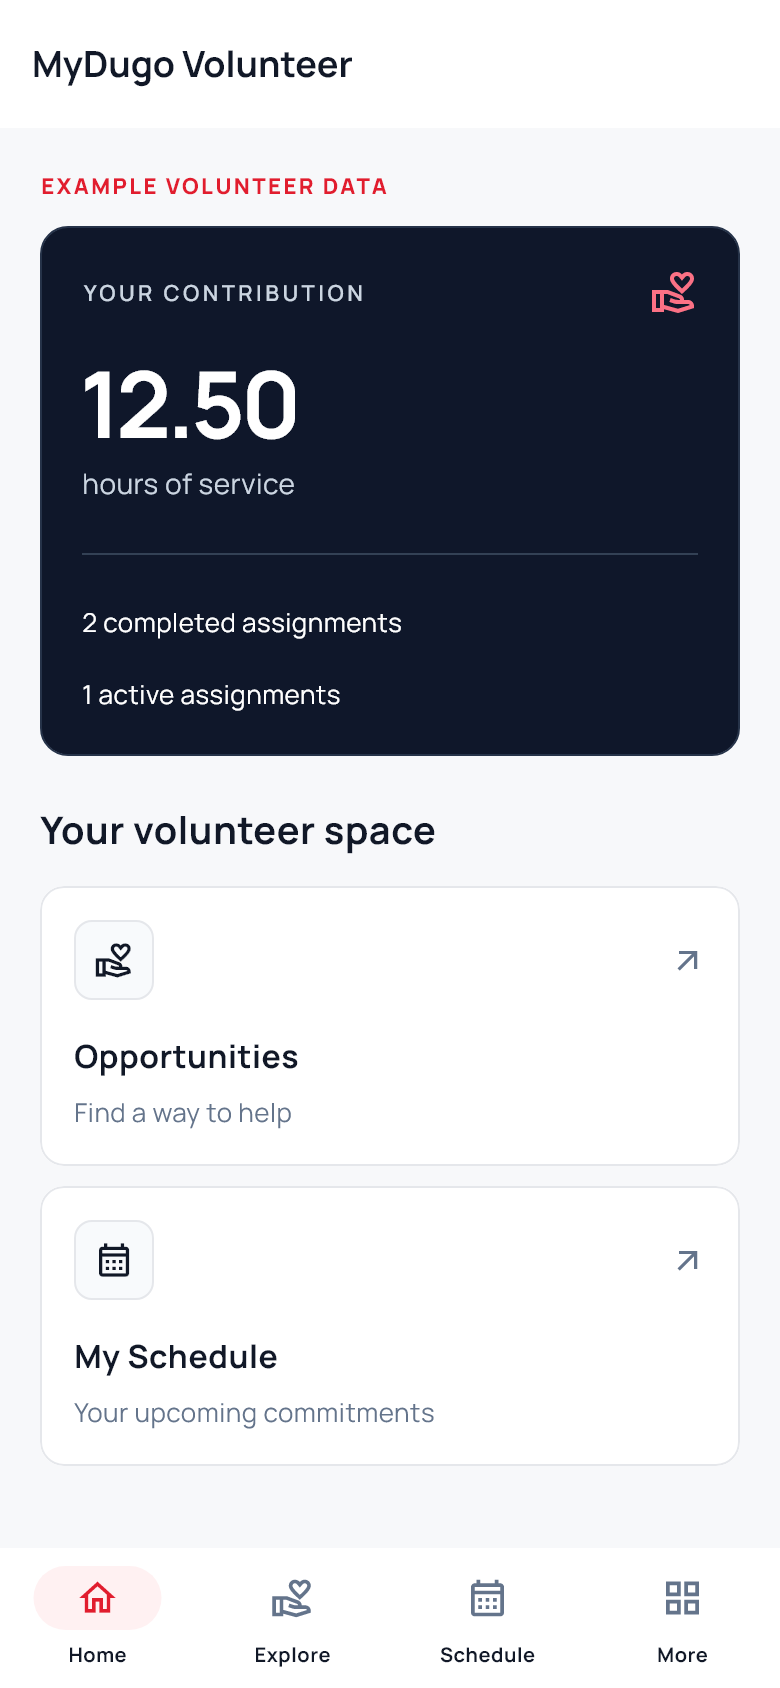
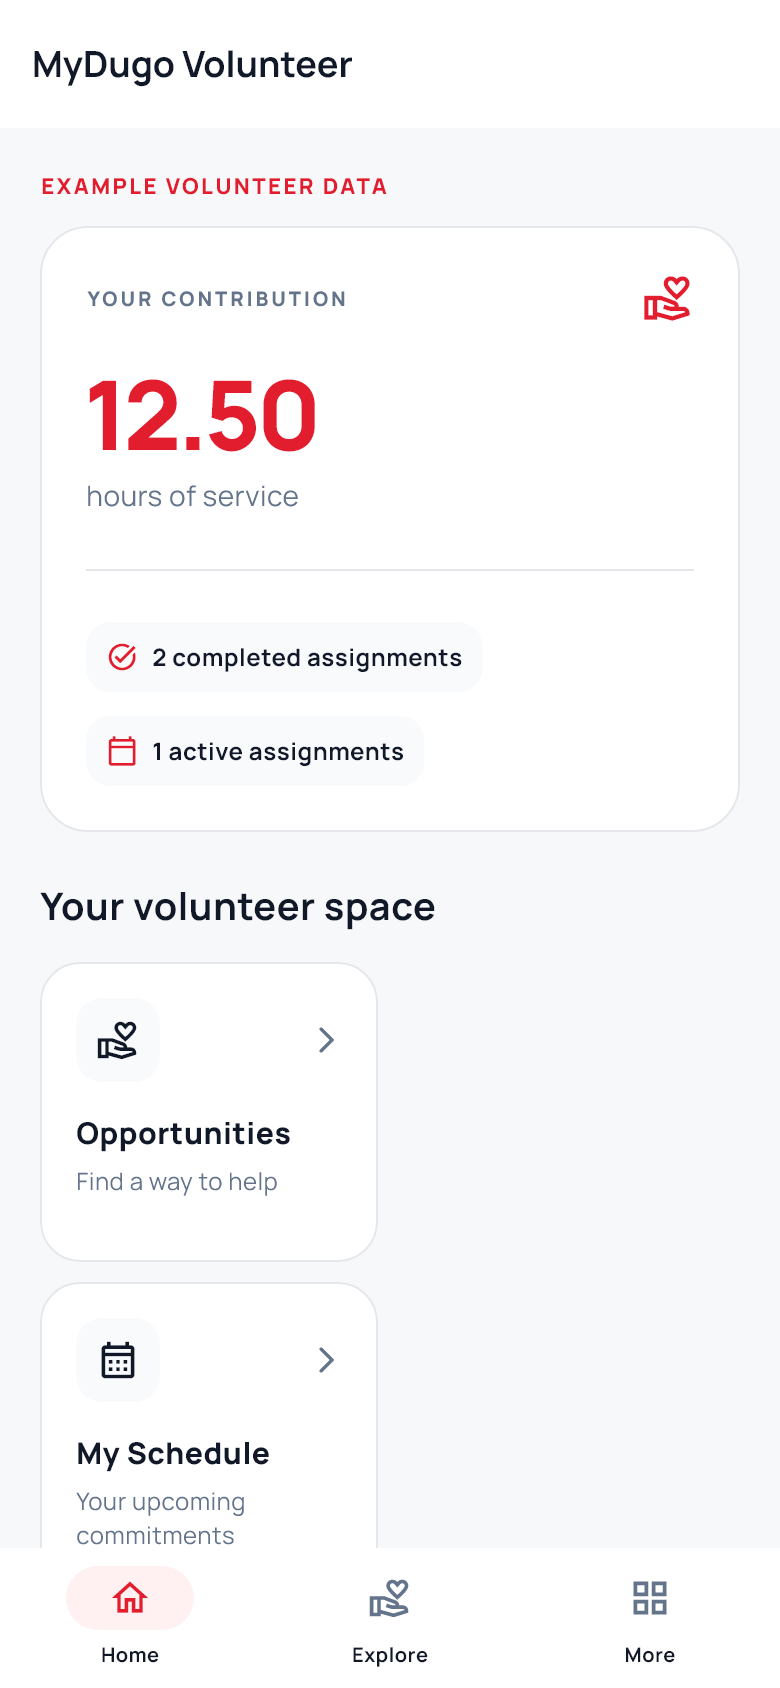
Publish build 32 with simplified account navigation

diff --git a/index.html b/index.html
@@ -47,7 +47,7 @@
             <p class="hero-kicker"><span aria-hidden="true"></span> MYDUGO · ALBAY–LEGASPI CITY</p>
             <h1>Give blood.<br><em>Stay ready to help.</em></h1>
             <p class="hero-lede">From your first eligibility check to chapter-reviewed blood needs and appointments, MyDugo helps you see the next step clearly.</p>
-            <div class="hero-actions"><a class="button button-primary" href="https://github.com/redblue1912/mydugo-public-site/releases/download/v1.1.0-build31/MyDugo-1.1.0-build31-release.apk">Get the Android app <svg class="icon" aria-hidden="true"><use href="#i-arrow"></use></svg></a><a class="button button-outline" href="#blood-donation">Explore the donor journey <svg class="icon" aria-hidden="true"><use href="#i-arrow"></use></svg></a></div>
+            <div class="hero-actions"><a class="button button-primary" href="https://github.com/redblue1912/mydugo-public-site/releases/download/v1.1.0-build32/MyDugo-1.1.0-build32-release.apk">Get the Android app <svg class="icon" aria-hidden="true"><use href="#i-arrow"></use></svg></a><a class="button button-outline" href="#blood-donation">Explore the donor journey <svg class="icon" aria-hidden="true"><use href="#i-arrow"></use></svg></a></div>
             <p class="hero-assurance"><svg class="icon" aria-hidden="true"><use href="#i-shield"></use></svg><span>Chapter staff review eligibility and blood-test results. The donation center makes the final on-site assessment.</span></p>
           </div>
         </div>
@@ -139,7 +139,7 @@
 
     <section id="volunteer" class="section volunteer"><div class="container volunteer-grid"><figure class="volunteer-media photo-figure"><img src="assets/volunteers.jpg" alt="Volunteers sorting donated supplies into boxes" width="1400" height="933" loading="lazy"><figcaption>Illustrative photograph: <a href="https://www.pexels.com/photo/volunteers-packing-up-goods-7156179/" target="_blank" rel="noopener noreferrer">Gustavo Fring / Pexels</a>. This is not a chapter photograph.</figcaption></figure><div class="volunteer-copy"><p class="kicker">09 / GIVE YOUR TIME</p><h2>Your time can make a difference.</h2><p>Volunteers help humanitarian work happen. Approved MyDugo volunteers can follow published chapter opportunities and their assignments in the app.</p><p>Ask the chapter how to join or learn about Philippine Red Cross volunteer service.</p><div class="volunteer-actions"><a class="button button-primary" href="#contact">Contact the chapter <svg class="icon" aria-hidden="true"><use href="#i-arrow"></use></svg></a><a class="inline-link" href="https://redcross.org.ph/about-us/" target="_blank" rel="noopener noreferrer">Explore Red Cross service ↗</a></div></div></div></section>
 
-    <section id="download" class="download"><div class="container download-grid"><div><p class="kicker">10 / STAY CONNECTED</p><h2>Ready to make a difference?</h2><p>MyDugo keeps donation steps, chapter decisions, relevant blood needs, and service opportunities within reach.</p><div class="download-platform"><svg class="icon" aria-hidden="true"><use href="#i-shield"></use></svg> Android preview APK · direct installation</div></div><div class="download-panel"><span>MYDUGO FOR ANDROID</span><h3>Get the Android app.</h3><p>Download the full MyDugo app with public-account, donor, hospital, and volunteer features. Find Blood Help includes the Albay–Legazpi chapter contact details. Donation-drive discovery and donor SMS preferences remain available. Drives appear when chapter staff publish them; SMS alerts require consent and configured delivery. Build 31 shows published public events and announcements on donor, hospital, volunteer and public-user dashboards. Administrators can add event photos, and users can browse more posts with View all and Load more. Donor scheduling offers only 9:30 AM or 1:00 PM at the Philippine Red Cross Albay-Legazpi City Chapter. The morning session ends at noon; lunch is noon to 1:00 PM. The donor profile Privacy &amp; Consent and Where I can help sections and the digital donor card have been removed. The donor dashboard puts active emergency blood requests at the top of the donor dashboard, with Critical requests before Urgent requests. The app combines the blood test and blood donation in one appointment at the same center, date and time. The test comes first; donation follows only after a passed test and staff eligibility confirmation. Hospital accounts are created by chapter administrators. Public users can still register, verify their email, and use their own dashboard for events and announcements. Create a public account and log in to see content summaries, upcoming activities and recent chapter updates. Public users have read-only access; chapter staff choose which content is public. Donor registration requires age 16 or older, agreement to the in-app Terms of Use and acknowledgment of the Privacy Notice. The donor leaderboard and achievements have been removed. Emergency Blood Needs continues to show chapter-approved urgent requests and published hospital locations. Donation decisions and apheresis intervals remain subject to chapter review. This signed Android preview is installed directly, outside Google Play.</p><p class="release-details">Version <strong>1.1.0 (build 31)</strong> · Released November 6, 2026 · <strong>60.96 MiB</strong> (63,922,031 bytes)</p><a class="download-link" href="https://github.com/redblue1912/mydugo-public-site/releases/download/v1.1.0-build31/MyDugo-1.1.0-build31-release.apk">Download Android APK <svg class="icon" aria-hidden="true"><use href="#i-arrow"></use></svg></a><p class="release-hash">SHA-256: <code>389cfc8a689d23ac323d7dd5a20686c46b33e4c169e25f0e98efc9cc62ce53af</code></p><small>Build 31 can update builds 29 and 30 in place. Versions before build 29 used a different install ID and require a separate installation and sign-in. Keep any device-only data before removing an older copy. Terms of Use and the Privacy Notice are available during registration and from About MyDugo.</small></div></div></section>
+    <section id="download" class="download"><div class="container download-grid"><div><p class="kicker">10 / STAY CONNECTED</p><h2>Ready to make a difference?</h2><p>MyDugo keeps donation steps, chapter decisions, relevant blood needs, and service opportunities within reach.</p><div class="download-platform"><svg class="icon" aria-hidden="true"><use href="#i-shield"></use></svg> Android preview APK · direct installation</div></div><div class="download-panel"><span>MYDUGO FOR ANDROID</span><h3>Get the Android app.</h3><p>Download the full MyDugo app with public-account, donor, hospital, and volunteer features. Find Blood Help includes the Albay–Legazpi chapter contact details. Donation-drive discovery and donor SMS preferences remain available. Drives appear when chapter staff publish them; SMS alerts require consent and configured delivery. Build 32 removes duplicate Schedule and Requests shortcuts from the bottom navigation. Donors now have Home, History and Profile; hospitals have Home, Inbox, Reports and Profile; volunteers have Home, Explore and More. Scheduling and requests remain accessible from the dashboards. Public users keep Home, Events and Announcements. Published public events and announcements appear on donor, hospital, volunteer and public-user dashboards. Administrators can add event photos, and users can browse more posts with View all and Load more. Donor scheduling offers only 9:30 AM or 1:00 PM at the Philippine Red Cross Albay-Legazpi City Chapter. The morning session ends at noon; lunch is noon to 1:00 PM. The donor profile Privacy &amp; Consent and Where I can help sections and the digital donor card have been removed. The donor dashboard puts active emergency blood requests at the top of the donor dashboard, with Critical requests before Urgent requests. The app combines the blood test and blood donation in one appointment at the same center, date and time. The test comes first; donation follows only after a passed test and staff eligibility confirmation. Hospital accounts are created by chapter administrators. Public users can still register, verify their email, and use their own dashboard for events and announcements. Create a public account and log in to see content summaries, upcoming activities and recent chapter updates. Public users have read-only access; chapter staff choose which content is public. Donor registration requires age 16 or older, agreement to the in-app Terms of Use and acknowledgment of the Privacy Notice. The donor leaderboard and achievements have been removed. Emergency Blood Needs continues to show chapter-approved urgent requests and published hospital locations. Donation decisions and apheresis intervals remain subject to chapter review. This signed Android preview is installed directly, outside Google Play.</p><p class="release-details">Version <strong>1.1.0 (build 32)</strong> · Released November 7, 2026 · <strong>60.96 MiB</strong> (63,922,031 bytes)</p><a class="download-link" href="https://github.com/redblue1912/mydugo-public-site/releases/download/v1.1.0-build32/MyDugo-1.1.0-build32-release.apk">Download Android APK <svg class="icon" aria-hidden="true"><use href="#i-arrow"></use></svg></a><p class="release-hash">SHA-256: <code>9e42264f1092fd5ad965f4080c6d4c7204616d22d640b0c7ef8ee33719a4197a</code></p><small>Build 32 can update builds 29, 30 and 31 in place. Versions before build 29 used a different install ID and require a separate installation and sign-in. Keep any device-only data before removing an older copy. Terms of Use and the Privacy Notice are available during registration and from About MyDugo.</small></div></div></section>
 
     <section id="faq" class="section faq"><div class="container faq-grid"><div><p class="kicker">11 / GOOD TO KNOW</p><h2>Questions, answered clearly.</h2><p>For personal medical advice or urgent care, speak with a qualified healthcare professional or the chapter.</p></div><div class="faq-list">
       <details><summary>Who can donate blood?</summary><p>Donation depends on a health assessment and blood-service requirements. Complete the app questionnaire for chapter review, then follow the donation center's on-site screening. See <a href="https://redcross.org.ph/national-blood-service/" target="_blank" rel="noopener noreferrer">Philippine Red Cross blood-service guidance</a>.</p></details>

diff --git a/README.md b/README.md
@@ -20,7 +20,7 @@ Open `http://127.0.0.1:8080/`.
 3. For each Android update, run `flutter pub get` in a fresh worktree so Android's plugin registrant is generated, then build with the same private release signing key. Smoke-test that the installed APK reaches the first app screen beyond the native splash. Verify its version, size, signature, and SHA-256 checksum; publish it as a GitHub Release asset; download it again to verify its hash. Only then update the hero and download section. Never copy the keystore or `key.properties` into this public repository.
 4. Recheck the chapter’s address and phone number against the [official Philippine Red Cross blood-service listing](https://redcross.org.ph/give-blood/) before sharing widely.
 
[2 lines of base64/hex data omitted]
 
 Build 9 is the full MyDugo app. In **Find Blood Help**, donors, hospitals and volunteers can open **Albay–Legazpi chapter contact** for the real published PRC address and number. Dialer, address map search and source-page links are included; call to confirm current services, hours and the entrance. The chapter contact remains accessible if the live directory is unavailable or empty. It is not a standalone locator or a fictional-facility demo, and no draft facility was marked verified or published.
 
